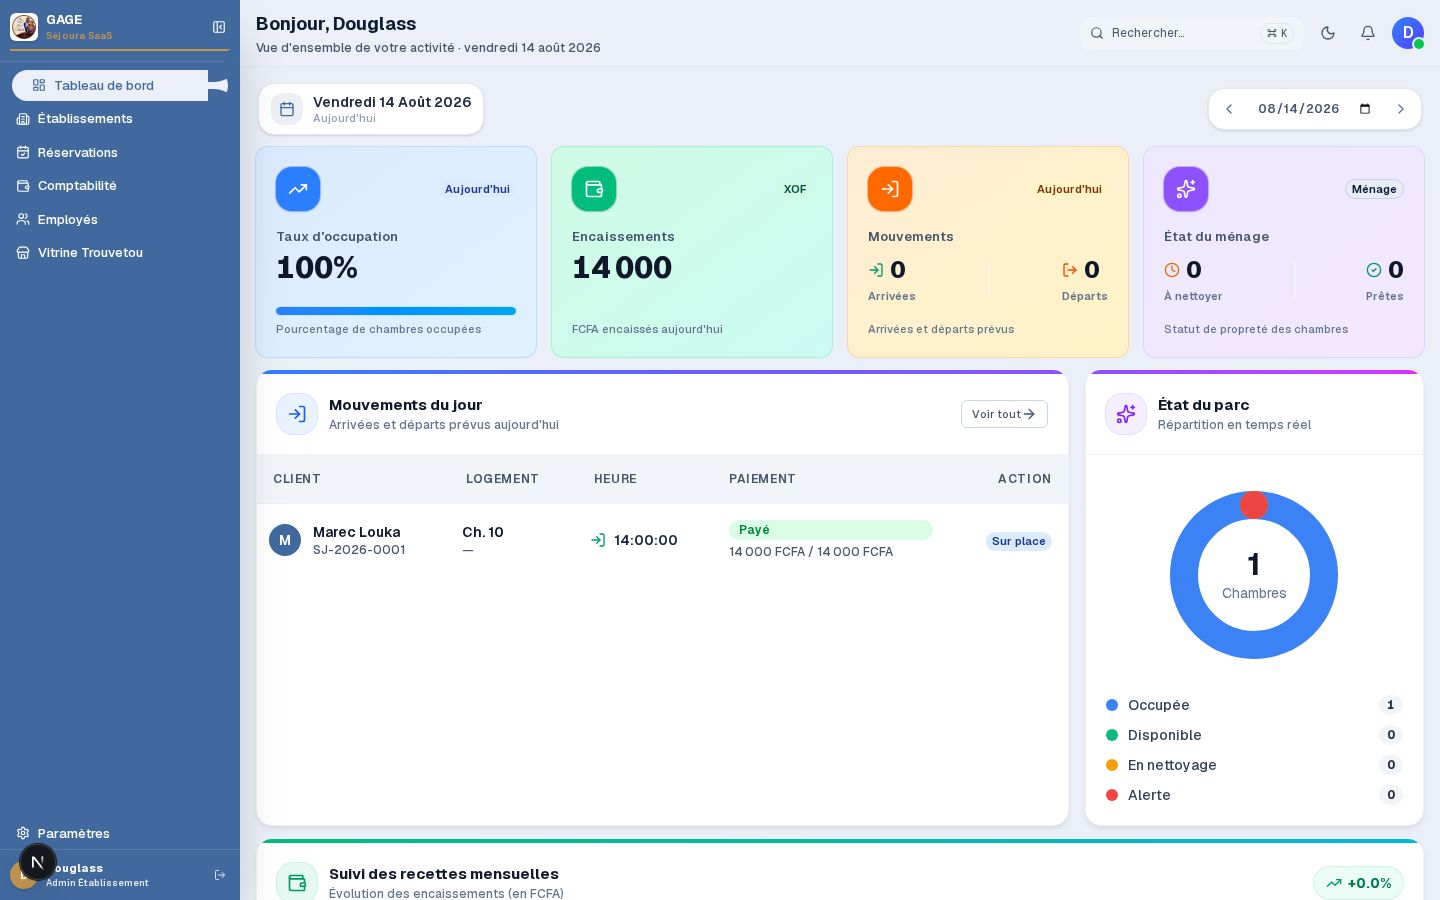
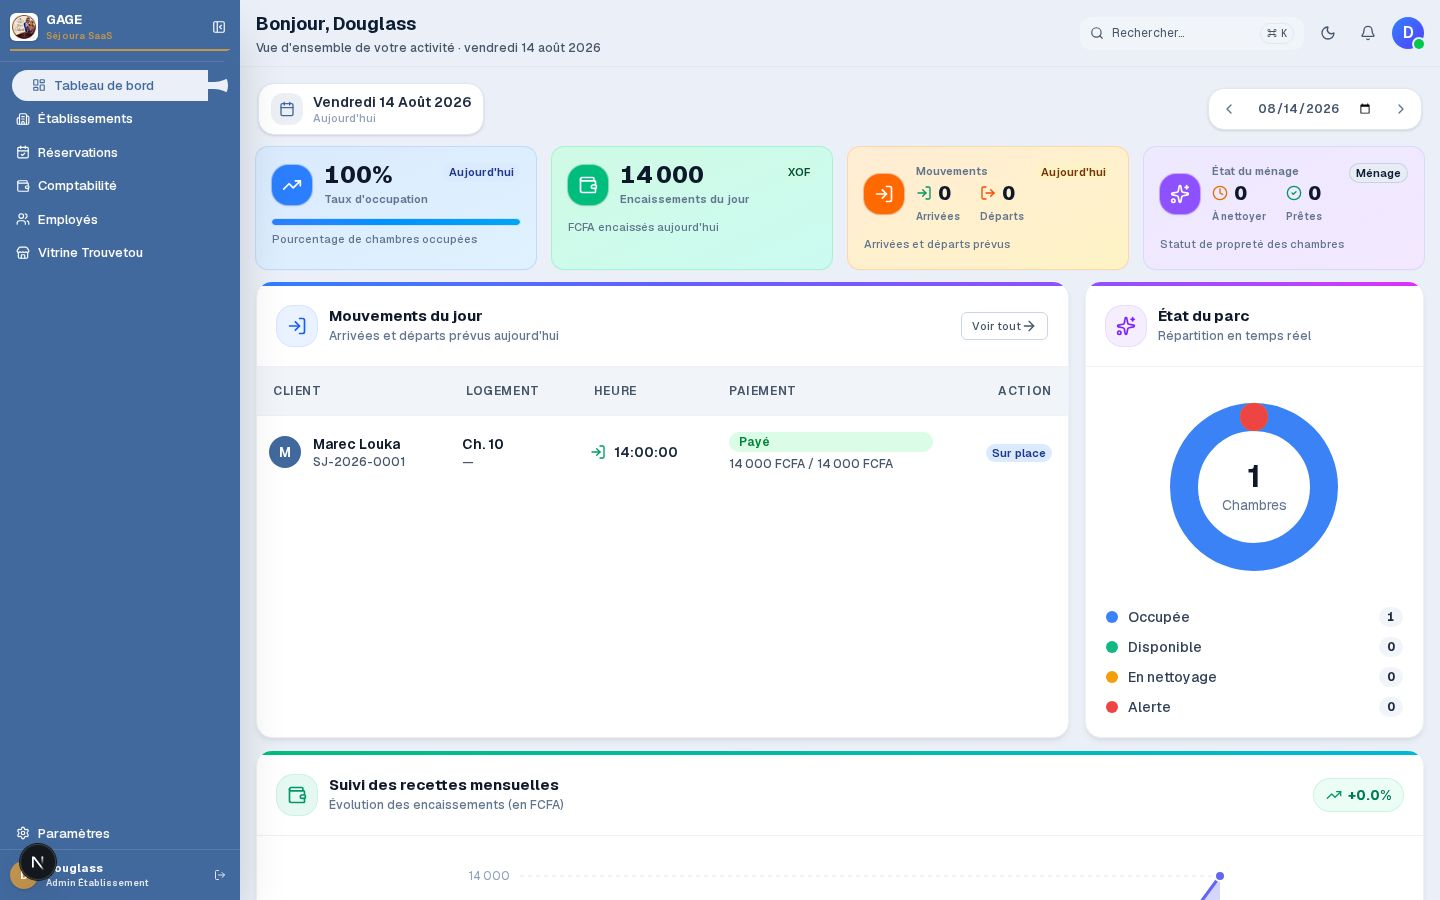
fix(dashboard): cartes KPI en format rectangle au lieu de carré
- Orientation horizontale : icône à gauche, valeur au centre, badge à droite
- Barre de progression, encaissements, arrivées/départs et ménage sur ligne secondaire compacte
- Ratio 2.30 à 1440px (avant 1.33)

diff --git a/src/app/dashboard/page.tsx b/src/app/dashboard/page.tsx
@@ -1109,19 +1109,21 @@ export default function DashboardPage() {
         /* ── Vue Admin : 4 KPIs colorés, chacun avec son identité visuelle ── */
         <div className="grid grid-cols-1 md:grid-cols-2 lg:grid-cols-4 gap-4">
           {/* KPI 1: Taux d'occupation — Bleu */}
-          <Card className="p-5 rounded-2xl border-0 bg-gradient-to-br from-blue-100 to-sky-100 dark:from-blue-950/50 dark:to-slate-900 shadow-[var(--shadow-md)] ring-1 ring-blue-200 dark:ring-blue-900/40 flex flex-col justify-between">
-            <div>
-              <div className="flex items-center justify-between mb-4">
-                <div className="w-11 h-11 rounded-xl bg-blue-500 text-white ring-1 ring-blue-600/30 dark:bg-blue-500/25 dark:text-blue-300 flex items-center justify-center shadow-sm">
+          <Card className="p-4 rounded-2xl border-0 bg-gradient-to-br from-blue-100 to-sky-100 dark:from-blue-950/50 dark:to-slate-900 shadow-[var(--shadow-md)] ring-1 ring-blue-200 dark:ring-blue-900/40">
+            <div className="flex items-start justify-between gap-3">
+              <div className="flex items-center gap-3 min-w-0">
+                <div className="w-10 h-10 rounded-xl bg-blue-500 text-white ring-1 ring-blue-600/30 dark:bg-blue-500/25 dark:text-blue-300 flex items-center justify-center shadow-sm flex-shrink-0">
                   <TrendingUp className="w-5 h-5" />
                 </div>
-                <Badge variant="info">{isToday ? "Aujourd'hui" : isPastDate ? "Passé" : "À venir"}</Badge>
+                <div className="min-w-0">
+                  <p className="text-2xl font-extrabold tabular-nums text-slate-900 dark:text-white leading-none">{kpis.occupancyRate}%</p>
+                  <p className="text-[11px] font-semibold text-slate-500 dark:text-slate-400 mt-1 truncate">{"Taux d'occupation"}</p>
+                </div>
               </div>
-              <p className="text-[13px] font-semibold text-slate-600 dark:text-slate-300 mb-1">{"Taux d'occupation"}</p>
-              <p className="text-3xl font-extrabold tabular-nums text-slate-900 dark:text-white">{kpis.occupancyRate}%</p>
+              <Badge variant="info">{isToday ? "Aujourd'hui" : isPastDate ? "Passé" : "À venir"}</Badge>
             </div>
-            <div className="mt-4">
-              <div className="h-2 bg-white/70 dark:bg-slate-800/80 rounded-full overflow-hidden ring-1 ring-blue-500/10">
+            <div className="mt-3">
+              <div className="h-1.5 bg-white/70 dark:bg-slate-800/80 rounded-full overflow-hidden ring-1 ring-blue-500/10">
                 <div
                   className="h-full bg-gradient-to-r from-blue-500 to-sky-500 rounded-full transition-all"
                   style={{ width: `${kpis.occupancyRate}%` }}
@@ -1132,86 +1134,90 @@ export default function DashboardPage() {
           </Card>
 
           {/* KPI 2: Encaissements du jour — Émeraude */}
-          <Card className="p-5 rounded-2xl border-0 bg-gradient-to-br from-emerald-100 to-teal-100 dark:from-emerald-950/50 dark:to-slate-900 shadow-[var(--shadow-md)] ring-1 ring-emerald-200 dark:ring-emerald-900/40 flex flex-col justify-between">
-            <div>
-              <div className="flex items-center justify-between mb-4">
-                <div className="w-11 h-11 rounded-xl bg-emerald-500 text-white ring-1 ring-emerald-600/30 dark:bg-emerald-500/25 dark:text-emerald-300 flex items-center justify-center shadow-sm">
+          <Card className="p-4 rounded-2xl border-0 bg-gradient-to-br from-emerald-100 to-teal-100 dark:from-emerald-950/50 dark:to-slate-900 shadow-[var(--shadow-md)] ring-1 ring-emerald-200 dark:ring-emerald-900/40">
+            <div className="flex items-start justify-between gap-3">
+              <div className="flex items-center gap-3 min-w-0">
+                <div className="w-10 h-10 rounded-xl bg-emerald-500 text-white ring-1 ring-emerald-600/30 dark:bg-emerald-500/25 dark:text-emerald-300 flex items-center justify-center shadow-sm flex-shrink-0">
                   <Wallet className="w-5 h-5" />
                 </div>
-                <Badge variant="success">{currency.code}</Badge>
+                <div className="min-w-0">
+                  <p className="text-2xl font-extrabold tabular-nums text-slate-900 dark:text-white leading-none truncate">
+                    {formatAmountOnly(kpis.dailyRevenue, currency.code)}
+                  </p>
+                  <p className="text-[11px] font-semibold text-slate-500 dark:text-slate-400 mt-1 truncate">Encaissements du jour</p>
+                </div>
               </div>
-              <p className="text-[13px] font-semibold text-slate-600 dark:text-slate-300 mb-1">Encaissements</p>
-              <p className="text-3xl font-extrabold tabular-nums text-slate-900 dark:text-white">
-                {formatAmountOnly(kpis.dailyRevenue, currency.code)}
-              </p>
+              <Badge variant="success">{currency.code}</Badge>
             </div>
-            <p className="text-[11px] font-medium text-slate-500 dark:text-slate-400 mt-4">
+            <p className="text-[11px] font-medium text-slate-500 dark:text-slate-400 mt-3">
               {isToday ? `${currency.symbol} encaissés aujourd'hui` : `${currency.symbol} encaissés le ${new Date(selectedDate + "T00:00:00").toLocaleDateString("fr-FR", { day: "numeric", month: "short" })}`}
             </p>
           </Card>
 
           {/* KPI 3: Entrées / Sorties prévues — Orange */}
-          <Card className="p-5 rounded-2xl border-0 bg-gradient-to-br from-orange-100 to-amber-100 dark:from-orange-950/50 dark:to-slate-900 shadow-[var(--shadow-md)] ring-1 ring-orange-200 dark:ring-orange-900/40 flex flex-col justify-between">
-            <div>
-              <div className="flex items-center justify-between mb-4">
-                <div className="w-11 h-11 rounded-xl bg-orange-500 text-white ring-1 ring-orange-600/30 dark:bg-orange-500/25 dark:text-orange-300 flex items-center justify-center shadow-sm">
+          <Card className="p-4 rounded-2xl border-0 bg-gradient-to-br from-orange-100 to-amber-100 dark:from-orange-950/50 dark:to-slate-900 shadow-[var(--shadow-md)] ring-1 ring-orange-200 dark:ring-orange-900/40">
+            <div className="flex items-start justify-between gap-3">
+              <div className="flex items-center gap-3 min-w-0">
+                <div className="w-10 h-10 rounded-xl bg-orange-500 text-white ring-1 ring-orange-600/30 dark:bg-orange-500/25 dark:text-orange-300 flex items-center justify-center shadow-sm flex-shrink-0">
                   <LogIn className="w-5 h-5" />
                 </div>
-                <Badge variant="warning">{isToday ? "Aujourd'hui" : isPastDate ? "Passé" : "À venir"}</Badge>
-              </div>
-              <p className="text-[13px] font-semibold text-slate-600 dark:text-slate-300 mb-1">Mouvements</p>
-              <div className="flex items-center justify-between pt-1">
-                <div>
-                  <div className="flex items-center gap-1.5">
-                    <LogIn className="w-4 h-4 text-emerald-600 dark:text-emerald-400" />
-                    <span className="text-2xl font-extrabold tabular-nums text-slate-900 dark:text-white">{kpis.expectedCheckins}</span>
+                <div className="min-w-0 flex-1">
+                  <p className="text-[11px] font-semibold text-slate-500 dark:text-slate-400 truncate">Mouvements</p>
+                  <div className="flex items-center gap-5">
+                    <div>
+                      <div className="flex items-center gap-1.5">
+                        <LogIn className="w-4 h-4 text-emerald-600 dark:text-emerald-400" />
+                        <span className="text-xl font-extrabold tabular-nums text-slate-900 dark:text-white">{kpis.expectedCheckins}</span>
+                      </div>
+                      <p className="text-[10px] font-semibold text-slate-500 dark:text-slate-400 mt-0.5">Arrivées</p>
+                    </div>
+                    <div>
+                      <div className="flex items-center gap-1.5">
+                        <LogOut className="w-4 h-4 text-orange-600 dark:text-orange-400" />
+                        <span className="text-xl font-extrabold tabular-nums text-slate-900 dark:text-white">{kpis.expectedCheckouts}</span>
+                      </div>
+                      <p className="text-[10px] font-semibold text-slate-500 dark:text-slate-400 mt-0.5">Départs</p>
+                    </div>
                   </div>
-                  <p className="text-[11px] font-semibold text-slate-500 dark:text-slate-400 mt-0.5">Arrivées</p>
-                </div>
-                <div className="w-px h-9 bg-white/80 dark:bg-slate-700/80" />
-                <div>
-                  <div className="flex items-center gap-1.5">
-                    <LogOut className="w-4 h-4 text-orange-600 dark:text-orange-400" />
-                    <span className="text-2xl font-extrabold tabular-nums text-slate-900 dark:text-white">{kpis.expectedCheckouts}</span>
-                  </div>
-                  <p className="text-[11px] font-semibold text-slate-500 dark:text-slate-400 mt-0.5">Départs</p>
                 </div>
               </div>
+              <Badge variant="warning">{isToday ? "Aujourd'hui" : isPastDate ? "Passé" : "À venir"}</Badge>
             </div>
-            <p className="text-[11px] font-medium text-slate-500 dark:text-slate-400 mt-4">
+            <p className="text-[11px] font-medium text-slate-500 dark:text-slate-400 mt-3">
               {isToday ? "Arrivées et départs prévus" : "Arrivées et départs enregistrés"}
             </p>
           </Card>
 
           {/* KPI 4: État Ménage — Violet */}
-          <Card className="p-5 rounded-2xl border-0 bg-gradient-to-br from-violet-100 to-purple-100 dark:from-violet-950/50 dark:to-slate-900 shadow-[var(--shadow-md)] ring-1 ring-violet-200 dark:ring-violet-900/40 flex flex-col justify-between">
-            <div>
-              <div className="flex items-center justify-between mb-4">
-                <div className="w-11 h-11 rounded-xl bg-violet-500 text-white ring-1 ring-violet-600/30 dark:bg-violet-500/25 dark:text-violet-300 flex items-center justify-center shadow-sm">
+          <Card className="p-4 rounded-2xl border-0 bg-gradient-to-br from-violet-100 to-purple-100 dark:from-violet-950/50 dark:to-slate-900 shadow-[var(--shadow-md)] ring-1 ring-violet-200 dark:ring-violet-900/40">
+            <div className="flex items-start justify-between gap-3">
+              <div className="flex items-center gap-3 min-w-0">
+                <div className="w-10 h-10 rounded-xl bg-violet-500 text-white ring-1 ring-violet-600/30 dark:bg-violet-500/25 dark:text-violet-300 flex items-center justify-center shadow-sm flex-shrink-0">
                   <Sparkles className="w-5 h-5" />
                 </div>
-                <Badge variant="purple">Ménage</Badge>
-              </div>
-              <p className="text-[13px] font-semibold text-slate-600 dark:text-slate-300 mb-1">État du ménage</p>
-              <div className="flex items-center justify-between pt-1">
-                <div>
-                  <div className="flex items-center gap-1.5">
-                    <Clock className="w-4 h-4 text-amber-600 dark:text-amber-400" />
-                    <span className="text-2xl font-extrabold tabular-nums text-slate-900 dark:text-white">{kpis.cleaningPending}</span>
+                <div className="min-w-0 flex-1">
+                  <p className="text-[11px] font-semibold text-slate-500 dark:text-slate-400 truncate">État du ménage</p>
+                  <div className="flex items-center gap-5">
+                    <div>
+                      <div className="flex items-center gap-1.5">
+                        <Clock className="w-4 h-4 text-amber-600 dark:text-amber-400" />
+                        <span className="text-xl font-extrabold tabular-nums text-slate-900 dark:text-white">{kpis.cleaningPending}</span>
+                      </div>
+                      <p className="text-[10px] font-semibold text-slate-500 dark:text-slate-400 mt-0.5">À nettoyer</p>
+                    </div>
+                    <div>
+                      <div className="flex items-center gap-1.5">
+                        <CheckCircle2 className="w-4 h-4 text-emerald-600 dark:text-emerald-400" />
+                        <span className="text-xl font-extrabold tabular-nums text-slate-900 dark:text-white">{kpis.cleaningDone}</span>
+                      </div>
+                      <p className="text-[10px] font-semibold text-slate-500 dark:text-slate-400 mt-0.5">Prêtes</p>
+                    </div>
                   </div>
-                  <p className="text-[11px] font-semibold text-slate-500 dark:text-slate-400 mt-0.5">À nettoyer</p>
-                </div>
-                <div className="w-px h-9 bg-white/80 dark:bg-slate-700/80" />
-                <div>
-                  <div className="flex items-center gap-1.5">
-                    <CheckCircle2 className="w-4 h-4 text-emerald-600 dark:text-emerald-400" />
-                    <span className="text-2xl font-extrabold tabular-nums text-slate-900 dark:text-white">{kpis.cleaningDone}</span>
-                  </div>
-                  <p className="text-[11px] font-semibold text-slate-500 dark:text-slate-400 mt-0.5">Prêtes</p>
                 </div>
               </div>
+              <Badge variant="purple">Ménage</Badge>
             </div>
-            <p className="text-[11px] font-medium text-slate-500 dark:text-slate-400 mt-4">Statut de propreté des chambres</p>
+            <p className="text-[11px] font-medium text-slate-500 dark:text-slate-400 mt-3">Statut de propreté des chambres</p>
           </Card>
         </div>
       )}
